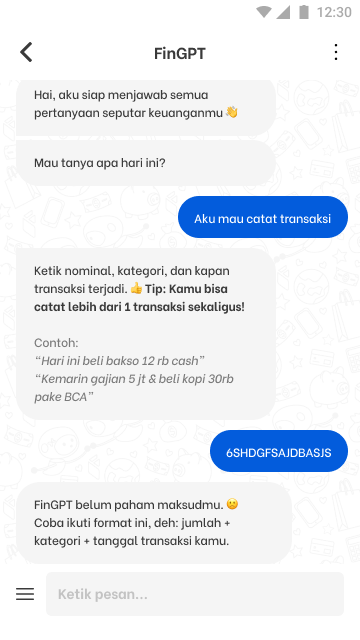
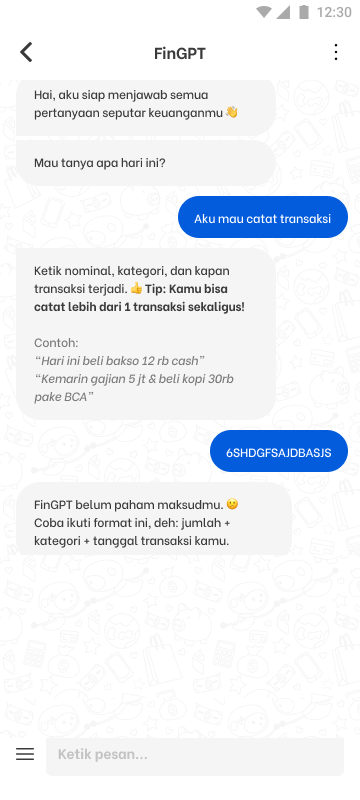
Fit all phone screens to 360x800 so nothing crops
Phone frames now use the 360:800 ratio on the content box, so the 3px
border no longer trims the image. Screens shorter than that ratio are
extended inside the screen instead of stretched: chat screens get more
background above the input, lists get a little more spacing. Goers and
KoinWorks covers now use full-height screens.

Claude-Session: https://claude.ai/code/session_01SQdWa2DxTx6x6MYkA5LNhw

diff --git a/src/i18n/locales/ja.js b/src/i18n/locales/ja.js
@@ -165,7 +165,7 @@ export const caseStudies = [
     timeline: "2025年6月 – 2026年1月",
     scope: ["UX監査", "競合ベンチマーク", "ホーム", "検索", "情報設計", "モバイルWeb"],
     accentMetric: {"value": "4", "label": "解決したディスカバリーの課題"},
-    cover: {"src": "/work/goers/cover-home.png", "alt": "場所とカテゴリを備えた Goers の新しいモバイルホーム"},
+    cover: {"src": "/work/goers/search-landing.png", "alt": "最近の検索と人気の検索を表示する、再設計した Goers の検索画面"},
     problem: "Goers はコンサート、スポーツ、観光施設、コミュニティイベントのチケットを販売し、クリエイターが自分のイベントを作ることもできます。訪問者の多くは、目的が決まった状態で来ていました。目標はオーガニックなディスカバリー、つまり探していなかったイベントに出会ってもらうことです。ところがホームはその逆でした。カテゴリと場所はバーガーメニューの中に隠れ、どのセクションも同じカードで、記事がイベントのように見え、一覧には日付がありませんでした。",
     approach: "ディスカバリーが起きる三つの場所（ホーム、イベント探索、検索）の UX 監査から始め、Tiket.com、Loket、Eventbrite と比較しました。長い課題リストは四つに絞られました。ディスカバリーへの入口が少ない、パーソナライズがない、コンテンツ種別の階層が弱い、キュレーションが目立たない。リデザインの各変更は、このいずれかに対応しています。",
     solutions: [
@@ -204,7 +204,7 @@ export const caseStudies = [
     timeline: '2022年3月 – 2025年6月',
     scope: ['登録フロー', 'フォーム設計', '新規プロダクト 0→1', 'クーポン設計', 'UXリサーチとの協働'],
     accentMetric: { value: '+248%', label: '本人確認完了ユーザー' },
-    cover: {"src": "/work/koinworks/cover-account-type.png", "alt": "KoinWorks のアカウント種別選択画面"},
+    cover: {"src": "/work/koinworks/kyc-account-type.png", "alt": "KoinWorks のアカウント種別選択画面"},
     problem:
       'KoinWorks は融資と金融教育のプラットフォームで、登録フローからユーザーが漏れ続けていました。フォームは早い段階で多くを尋ねすぎ、検証は遅すぎました。最後になってエラーに当たり、そのまま離脱していたのです。',
     approach:

diff --git a/src/i18n/locales/id.js b/src/i18n/locales/id.js
@@ -166,7 +166,7 @@ export const caseStudies = [
     timeline: "Jun 2025 – Jan 2026",
     scope: ["UX audit", "Benchmark kompetitor", "Homepage", "Pencarian", "Arsitektur informasi", "Mobile web"],
     accentMetric: {"value": "4", "label": "Masalah discovery diperbaiki"},
-    cover: {"src": "/work/goers/cover-home.png", "alt": "Homepage mobile Goers yang baru dengan lokasi dan kategori"},
+    cover: {"src": "/work/goers/search-landing.png", "alt": "Pencarian Goers yang didesain ulang dengan pencarian terakhir dan populer"},
     problem: "Goers menjual tiket konser, olahraga, tempat wisata, dan event komunitas, dan kreator bisa membuat event sendiri. Sebagian besar pengunjung datang dengan tujuan yang sudah jelas. Targetnya adalah discovery organik: orang menemukan event yang tidak mereka cari. Homepage-nya justru menghambat. Kategori dan lokasi tersembunyi di burger menu, semua section memakai kartu yang sama, artikel terlihat seperti event, dan tanggal tidak muncul di daftar.",
     approach: "Saya mulai dari UX audit di tiga tempat discovery terjadi (homepage, eksplorasi event, pencarian) dan membandingkan dengan Tiket.com, Loket, dan Eventbrite. Daftar masalah yang panjang mengerucut jadi empat: sedikit pintu masuk ke discovery, tidak ada personalisasi, hierarki antar jenis konten lemah, dan daftar kurasi yang tidak menonjol. Tiap perubahan di redesign menjawab salah satunya.",
     solutions: [
@@ -205,7 +205,7 @@ export const caseStudies = [
     timeline: 'Mar 2022 – Jun 2025',
     scope: ['Registrasi', 'Desain form', 'Produk baru 0→1', 'Sistem voucher', 'Kolaborasi UX research'],
     accentMetric: { value: '+248%', label: 'Pengguna terverifikasi' },
-    cover: {"src": "/work/koinworks/cover-account-type.png", "alt": "Layar pilihan tipe akun KoinWorks"},
+    cover: {"src": "/work/koinworks/kyc-account-type.png", "alt": "Layar pilihan tipe akun KoinWorks"},
     problem:
       'KoinWorks adalah platform pinjaman dan edukasi finansial, dan registrasinya bocor. Form-nya meminta terlalu banyak, terlalu awal, dan memvalidasi terlalu telat — orang baru kena error di ujung, lalu pergi.',
     approach:

diff --git a/src/i18n/locales/en.js b/src/i18n/locales/en.js
@@ -163,7 +163,7 @@ export const caseStudies = [
     timeline: "Jun 2025 – Jan 2026",
     scope: ["UX audit", "Competitor benchmark", "Homepage", "Search", "Information architecture", "Mobile web"],
     accentMetric: {"value": "4", "label": "Discovery problems fixed"},
-    cover: {"src": "/work/goers/cover-home.png", "alt": "Redesigned Goers mobile homepage with location and categories"},
+    cover: {"src": "/work/goers/search-landing.png", "alt": "Redesigned Goers search with recent and popular searches"},
     problem: "Goers sells tickets for concerts, sports, attractions and community events, and lets creators publish their own. Most visitors arrived knowing what they wanted. The goal was organic discovery: people finding events they had not searched for. The homepage worked against that. Categories and location were hidden in the burger menu, every section used the same card, articles looked like events, and dates were missing from listings.",
     approach: "I started with a UX audit of the three places discovery happens (homepage, event exploration, search) and benchmarked Tiket.com, Loket and Eventbrite. That reduced a long list of issues to four problems: few entry points to discovery, no personalisation, weak hierarchy between content types, and curated lists that did not stand out. Each change in the redesign maps to one of them.",
     solutions: [
@@ -202,7 +202,7 @@ export const caseStudies = [
     timeline: 'Mar 2022 – Jun 2025',
     scope: ['Registration', 'Form design', 'New products 0→1', 'Voucher systems', 'UX research partnership'],
     accentMetric: { value: '+248%', label: 'Verified users' },
-    cover: {"src": "/work/koinworks/cover-account-type.png", "alt": "KoinWorks account type selection screen"},
+    cover: {"src": "/work/koinworks/kyc-account-type.png", "alt": "KoinWorks account type selection screen"},
     problem:
       'KoinWorks is a lending and financial-education platform, and registration was leaking users. The form asked for too much, too early, and validated too late — people hit an error at the end and left.',
     approach:

diff --git a/src/styles/components.css b/src/styles/components.css
@@ -679,14 +679,14 @@ a.footer__rail:hover .footer__rail-val { color: var(--accent); }
 .cs-sol__body { color: var(--ink-70); margin-top: 0.85rem; font-size: 1.05rem; }
 @media (max-width: 680px) { .cs-solutions { grid-template-columns: 1fr; } }
 
-/* Real screens. The phone frame matches .mock; the image fills it top-aligned
-   so tall exports crop at the bottom rather than shrinking. */
-.mock--shot { padding: 0; overflow: hidden; background: #fff; }
+/* Real screens. Frames use the 360x800 phone ratio and every export is padded
+   to it, so nothing crops; taller scrolling exports crop at the bottom. */
+.mock--shot { padding: 0; overflow: hidden; background: #fff; aspect-ratio: 360 / 800; box-sizing: content-box; }
 .mock__img { display: block; width: 100%; height: 100%; object-fit: cover; object-position: top; border-radius: 23px; }
 .cs-screens-wrap { padding-top: 0; }
 .cs-screens { display: grid; grid-auto-flow: column; grid-auto-columns: minmax(200px, 240px); gap: 1.5rem; overflow-x: auto; padding-bottom: 1rem; scroll-snap-type: x mandatory; }
 .cs-screen { margin: 0; scroll-snap-align: start; }
-.cs-screen__frame { border: 3px solid var(--ink); border-radius: 26px; overflow: hidden; background: #fff; aspect-ratio: 360 / 760; box-shadow: 6px 6px 0 rgba(11,11,11,0.12); }
+.cs-screen__frame { border: 3px solid var(--ink); border-radius: 26px; overflow: hidden; background: #fff; aspect-ratio: 360 / 800; box-sizing: content-box; box-shadow: 6px 6px 0 rgba(11,11,11,0.12); }
 .cs-screen__frame img { display: block; width: 100%; height: 100%; object-fit: cover; object-position: top; }
 .cs-screen__cap { margin-top: 0.9rem; font-size: 0.9rem; line-height: 1.45; color: var(--ink-70); }
 
